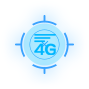
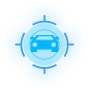
replace images

Changed region(s): [[0.3371, 0.382, 0.6742, 0.6292]]

diff --git a/src/map/views/Police.vue b/src/map/views/Police.vue
@@ -26,20 +26,18 @@ import * as ZTMAP from "ztmap";
 import axios from "axios";
 import { handleMarkerDisplay } from "../../utils/map-utils";
 
-const options = ["警情", "3g摩巡", "4g车", "人像卡口"];
-
 export default {
   data() {
     return {
       checkAll: false,
-      checked: ["警情", "3g摩巡", "4g车"],
-      options: options,
+      checked: [],
+      options: [],
       isIndeterminate: false
     };
   },
   methods: {
     handleCheckAllChange(val) {
-      this.checked = val ? options : [];
+      this.checked = val ? this.options : [];
       this.isIndeterminate = false;
       handleMarkerDisplay(this.checked);
     },
@@ -52,9 +50,15 @@ export default {
     }
   },
   mounted() {
-    let { name } = this.$route.query;
-    name = name || "";
-    axios.post("/location/getPolicePoints", { name }).then(result => {
+    let { name = "", type = "" } = this.$route.query;
+    if (type) {
+      this.options = ["违法警情", "3g摩巡", "4g车", "人像卡口", "火灾"];
+      this.checked = ["违法警情", "3g摩巡", "4g车", "火灾"];
+    } else {
+      this.options = ["警情", "3g摩巡", "4g车", "人像卡口"];
+      this.checked = ["警情", "3g摩巡", "4g车"];
+    }
+    axios.post("/location/getPolicePoints", { type, name }).then(result => {
       // axios.get("/json/map/police/policePoints.json", { name }).then(result => {
       const data = result.data;
       const map = new ZTMAP.Map({
@@ -77,12 +81,12 @@ export default {
 <style lang="scss" scoped>
 .control-panel {
   position: absolute;
-  width: 240px;
-  height: 80px;
+  width: auto;
+  height: auto;
   background: rgba(13, 93, 152, 0.5);
   top: 20px;
   left: 20px;
-  padding: 20px;
+  padding: 20px 10px;
   border: 4px solid rgb(13, 93, 152);
 }
 </style>

diff --git a/src/utils/map-utils.js b/src/utils/map-utils.js
@@ -40,6 +40,7 @@ const handleMarkerDisplay = data => {
       case "企业":
         className = "marker-factory";
         break;
+      case "违法警情":
       case "警情":
         className = "marker-jq";
         break;
@@ -51,6 +52,9 @@ const handleMarkerDisplay = data => {
         break;
       case "人像卡口":
         className = "marker-rxkk";
+        break;
+      case "火灾":
+        className = "marker-hz";
         break;
     }
     Array.prototype.slice

diff --git a/src/map/Map.vue b/src/map/Map.vue
@@ -109,4 +109,13 @@ body {
   width: 149px;
   @include marker;
 }
+.marker-hz {
+  background: url(./assets/images/hz.png) no-repeat center center;
+  width: 149px;
+  @include marker;
+}
+
+.el-checkbox {
+  color: #fff;
+}
 </style>
